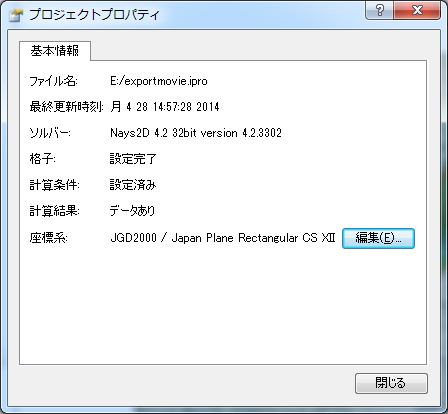
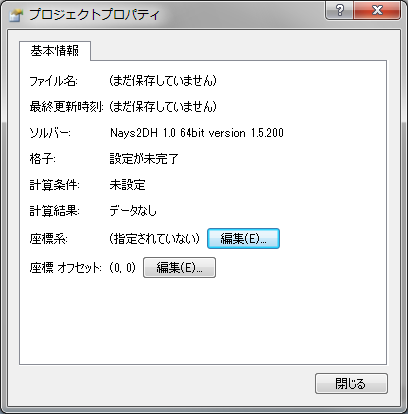
Description about coordinate system setting dialog and offset dialog are added to [Property] menu page.

diff --git a/source/03/03_06_property.rst b/source/03/03_06_property.rst
@@ -6,10 +6,36 @@
 プロパティダイアログの表示例を :numref:`image_project_property_dialog`
 に示します。
 
-このダイアログから、座標系を指定することができます。
+このダイアログから、座標系とオフセットを指定することができます。
+
+「座標系」の横の「編集」ボタンを押すと、座標系の選択ダイアログ
+(:numref:`image_select_coordsystem_dialog` 参照) が表示されます。ここから、
+地理情報や格子で使用する座標系を選択して下さい。
+
+「座標 オフセット」の横の「編集」ボタンを押すと、オフセット設定ダイアログ
+(:numref:`image_offset_setting_dialog` 参照) が表示されます。ここから、
+座標のオフセット値を入力して下さい。
+
+座標系の原点から遠い位置にある地理情報や格子をプロジェクト内で利用する場合
+(例えば、 UTM座標系を使用して赤道から遠く離れた領域のデータを扱う場合)、
+オフセットを入力することにより、座標値に関する打切り誤差が減少して、データ処理の
+精度が改善します。このようなケースでは、あなたが使用する地理情報や格子に
+近い点の X, Y の値を入力して下さい。
 
 .. _image_project_property_dialog:
 
 .. figure:: images/project_property_dialog.png
 
-   プロジェクトプロパティダイアログ 表示例
+   プロジェクトプロパティダイアログ
+
+.. _image_select_coordsystem_dialog:
+
+.. figure:: images/select_coordsystem_dialog.png
+
+   座標系の選択ダイアログ
+
+.. _image_offset_setting_dialog:
+
+.. figure:: images/offset_setting_dialog.png
+
+   オフセット設定ダイアログ
